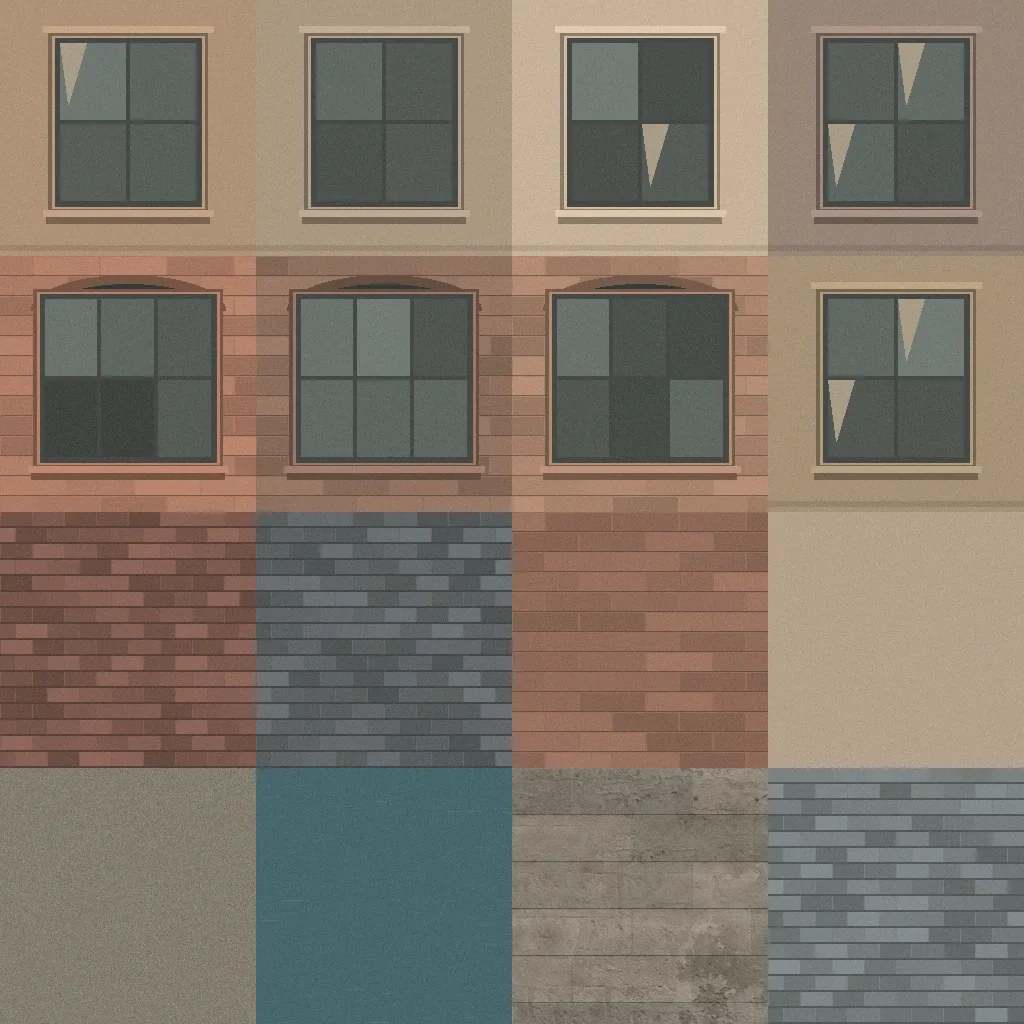
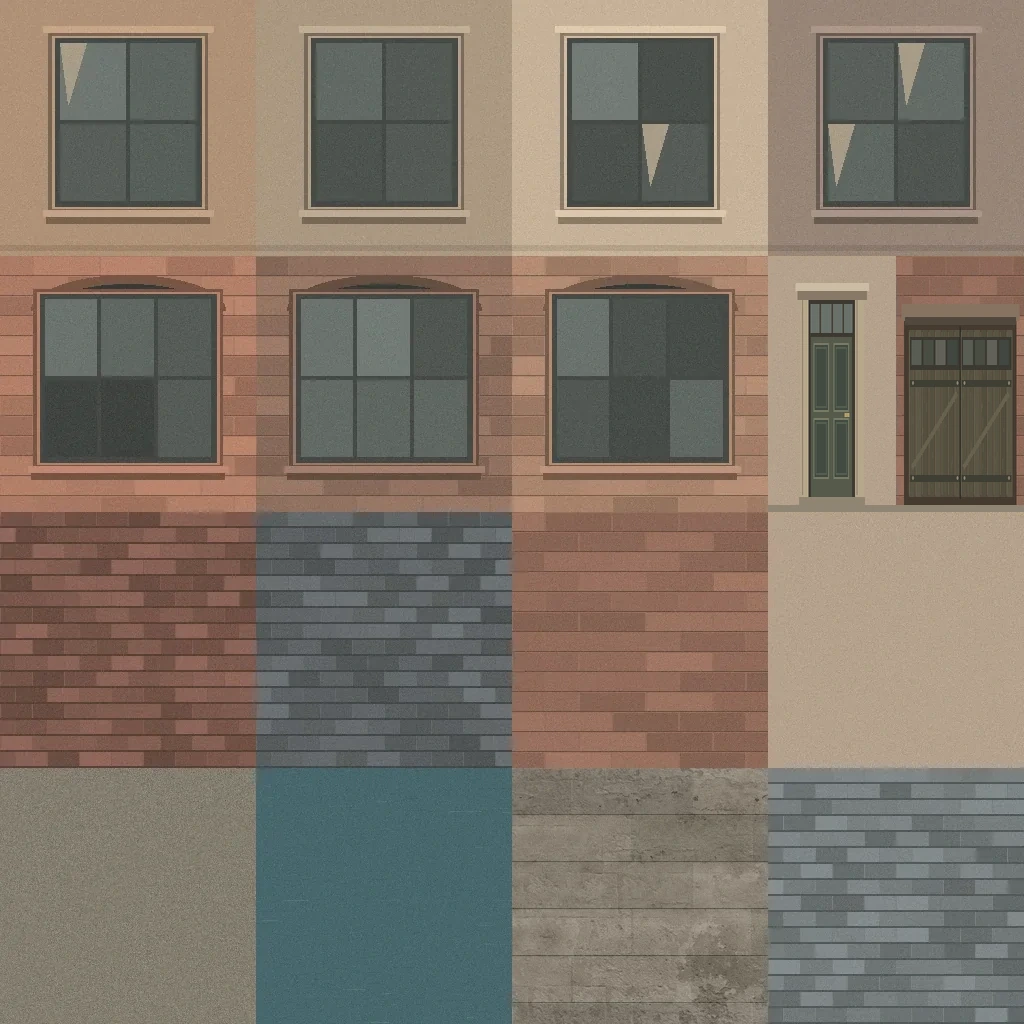
Reduce HUD updates and detail freight courtyard facades

Changed region(s): [[0.75, 0.25, 1.0, 0.5]]

diff --git a/client/ReleaseNotes.tsx b/client/ReleaseNotes.tsx
@@ -9,13 +9,13 @@ const changes=[
  ['Begehbare Harbour Road','Östlich der Radarstation liegen Palm Diner, Harbour Supply und Coast Records. Durch die offenen Eingänge gelangst du zu Sitznischen, Warenregalen und Plattenkisten. Die Läden haben eigene Böden, gerahmte Drucke, Verpackungen und Einrichtung. Bei Harbour Supply hängt ein illustrierter Musterkasten für Schiffszubehör samt aufgeschossener Leine. Über den Verkaufsregalen sind sechs Schiffsbeschläge auf beschrifteten Musterbrettern ausgestellt. In den Schaufenstern stehen rote und grüne Positionslaternen aus geripptem Glas und Messing. Der Laden hat eine helle Bretterdecke und einen seegrauen Tresen mit einer Maßskala für Tauwerk. Im Palm Diner stehen Ketchup und Senf auf einem Emailletablett. Meergrüne Wände mit einem cremefarbenen Fliesensockel umgeben den Gastraum. Über dem Tresen hängt die illustrierte Frühstückskarte. Draußen greifen der petrolfarbene Fliesensockel und das neue Fassadenschild die Farben des Innenraums auf. Die Brüstungen schließen bündig an die Türpfosten an, damit die Flächen beim Drehen nicht flimmern. Die Westwand trägt eine gemalte Kaffeereklame. Zur Hafenseite gibt es eine Küchenausgabe mit Emailleablage, belegten Broten und Wärmelampen. Coast Records hat einen Hörplatz mit Holzlautsprechern und dem eigens gestalteten Albumcover „Low Water“. An den Wänden hängen vier weitere illustrierte Cover und die dazugehörigen Schallplatten. Draußen kennzeichnet ein großes Schallplattenrelief mit farbigem Mittellabel die Seitenwand. Die Decke hat perforierte Akustikkassetten. Plattenkisten und Tresen haben Holzmaserung, Messinggriffe und Karteischilder. Harbour Supply und Coast Records haben eigene Fassadenschilder und beschriftete Schaufenstersockel. Pendelleuchten werfen warme Lichtkegel, und die Schaufenster haben profilierte Rahmen. Die drei Stoffmarkisen haben einen leichten Durchhang, gebogene Säume und sichtbare Halterungen. Am Straßenmast vor dem Palm Diner hängt ein Hafentelefon mit Wählscheibe, Hörer und beidseitigem Emailschild. Am Fußgängerübergang sind die Bordsteine abgesenkt. Auf den abgefahrenen Markierungen scheint stellenweise der Asphalt durch. Vier Straßenlampen haben gebogene Ausleger mit Emaillehauben und Opalglas. Ein gefalzter Metallrand umschließt die Gläser an der Unterseite. Die Freileitungen sitzen auf Porzellanisolatoren.'],
  ['Post vom Hafenamt','Die Geschäfte auf Island haben neue Aushänge. Außen an der Ostwand des Diners kannst du am Nachlassschalter mit E einen Bescheid ziehen. Auf Island hat die MP 40 einen Katzenaufsatz mit gedämpftem Schuss.'],
  ['Licht, Küste und Inselstraße','Ein fotografierter Himmel bestimmt Tageslicht und Reflexionen. Nebel und Nacht haben eigene Himmelsverläufe. Asphalt und Pflaster dunkeln bei Nebel durch Feuchtigkeit ab. Die Harbour Road führt durch eine ausgeschilderte Hafeneinfahrt zum Anleger und zum Hafenmeisterbüro. Durch die geöffneten Fenster siehst du das Funkpult, den Hafenplan und die Gezeitentafel. Hinter dem Anleger liegen Hafenkräne und der Frachter Tern Sound mit sichtbaren Stahlplattenstößen, Tiefgangsmarken, Ladebaum und Festmacherleinen. Die Hafenkräne haben verglaste Kabinen, Gegengewichte, Wartungsstege und Seilrollen mit Haken. Am Ufer rollen gestaffelte Wellen mit schmalen Schaumkanten über nassen Sand, entlang der Straße wachsen Sträucher. Die Harbour Road hat einen Zebrastreifen, Straßenabläufe und einen gusseisernen Schachtdeckel mit Hafenanker und Schriftprägung. Gefaste Bordsteine, Pflasterrinnen und versetzte Betonplatten geben den Gehwegen ein eigenes Profil. Felsen haben verwitterte Oberflächen mit dunkleren Gezeitenzonen. Auf Hoch und Ultra zeichnen sich Lichtmuster im flachen Wasser ab. Werkstätten und Depots tragen Dachaufbauten, Fallrohre und verwitterte Sprossenfenster. Die oberen Ladebuchten der Küstenwachen haben beschriftete Stahlrolltore mit Führungsschienen. Die Eingangsschilder sind unter den Vordächern wieder lesbar. Die Radarplattform hat jetzt einen Fachwerkmast, Funkkästen und neu markierte Zugänge.'],
- ['Historische Architektur','In Köln und im Güterviertel findest du Bahnhofsuhren, eiserne Vordächer und gemauerte Gesimse. Der Deutzer Bahnhof hat ein neues Vordach, Wandlaternen und eine Abfahrtstafel am Vorplatz. Zur Brücke hin trägt die Brückenwache ein Emailleschild zwischen Wandlaternen und profilierten Steinsimsen. Die Buchhandlung am Domhof hat Rundbogenfenster, Sandsteinrahmen, schmiedeeiserne Balkone und ein Schriftband zur Brücke. Im Erdgeschoss zeigen gerahmte Schaufenster Bücher, Kölner Ansichten und Karten. Nachts leuchten die Laternen, der Fahrplan und einzelne Fenster der umliegenden Häuser. Hinter den Straßen setzen sich die Häuserzeilen bis zum Horizont fort. Höhere Grafikprofile zeigen zusätzliche Gauben und Dachaufbauten. Die Kölner Eisenbahnbrücke hat ausgearbeitete Stahlbögen, Querverbände und genietete Anschlussbleche. Ihre beiden Gleise haben profilierte Schienen, blanke Laufflächen und gemaserte Schwellen. Auf der Brücke und im Güterviertel stehen hölzerne Güterwagen mit sichtbarem Fahrwerk, Stahlstreben und Puffern. Am Rheinufer stehen Kaimauern mit Hochwassermarken, Auslässen und Landungstreppen. Die Quader zeigen eine fotografische Sandsteinstruktur und unterschiedlich verwitterte Abschnitte. Die Wasseroberfläche zeigt Strömungsrippel. An den Kaimauern zieht die Strömung kleine Schaumstreifen flussabwärts. Natursteinplatten, Rinnen und Fahrspuren verbinden Kino und Güterbahnhof. Beladene Handkarren stehen im Güterhof. Die Gleise haben profilierte Schienen mit blanken Laufflächen, Befestigungen und gemaserten Schwellen. An Gleis 2 erkennst du die Paketannahme der Feldpost an ihrer Backsteinfassade und dem gemalten Schild. Am Ende der Gleise stehen ein Bahnwasserturm und ein Wasserkran. Beide Gleise laufen bis zum Prellbock mit durchgehenden Schwellen und einem geböschten Schotterbett. Am Turm sind gemauerte Bögen, vertiefte Fugen und genietete Bleche sichtbar. Der danebenstehende Wasserkran hat verschraubte Eisenflansche, ein Handrad und eine ausgeformte Tülle. Daneben liegt eine gekieste Arbeitsfläche mit gebogenen Fahrspuren. Über dem Kölner Rheinufer ragen die beiden gotischen Domtürme mit Maßwerk und abgestuften Spitzen auf. In den Alpen liegen gestaffelte Kalkgrate mit Schneefeldern hinter den Kasernen. Unterhalb der Grate stehen Tannen mit unregelmäßigen Zweigen, sichtbaren Stämmen und einzelnen Schneespuren. Auf den Kalkblöcken am Pass liegt Schnee auf den oberen Flächen und in flachen Rinnen. Eine eigene Kalksteintextur zeigt Bruchlinien und Mineraladern an Felsen und Berghängen. Die Felshänge schließen an den Passboden an, und die Tannen stehen auf der Geländeoberfläche. Schneeverwehungen, Radspuren und festgetretene Wege verbinden die Kasernen mit der Passstraße. Auf den Dächern liegt ungleichmäßig verteilter Schnee. Am Poste des Alpes schützt ein schneebedecktes Holzvordach den Eingang. Feine Schneeflocken ziehen mit dem Wind durch das Tal. Gebäude halten die Flocken draußen, durch offene Eingänge und Fenster bleibt der Schnee sichtbar. Roche-la-Croix hat eine befestigte Betonfront und eine stählerne Beobachtungsglocke. Am Eingang zeigen sich Spuren der Holzschalung, Frostschäden und französische Bauwerksmarkierungen. Darüber sitzen Sprossenfenster mit zurückgeklappten Stahlläden unter einem Kalksteingiebel.'],
+ ['Historische Architektur','In Köln und im Güterviertel findest du Bahnhofsuhren, eiserne Vordächer und gemauerte Gesimse. Der Deutzer Bahnhof hat ein neues Vordach, Wandlaternen und eine Abfahrtstafel am Vorplatz. Zur Brücke hin trägt die Brückenwache ein Emailleschild zwischen Wandlaternen und profilierten Steinsimsen. Die Buchhandlung am Domhof hat Rundbogenfenster, Sandsteinrahmen, schmiedeeiserne Balkone und ein Schriftband zur Brücke. Im Erdgeschoss zeigen gerahmte Schaufenster Bücher, Kölner Ansichten und Karten. Nachts leuchten die Laternen, der Fahrplan und einzelne Fenster der umliegenden Häuser. Hinter den Straßen setzen sich die Häuserzeilen bis zum Horizont fort. Höhere Grafikprofile zeigen zusätzliche Gauben und Dachaufbauten. Die Kölner Eisenbahnbrücke hat ausgearbeitete Stahlbögen, Querverbände und genietete Anschlussbleche. Ihre beiden Gleise haben profilierte Schienen, blanke Laufflächen und gemaserte Schwellen. Auf der Brücke und im Güterviertel stehen hölzerne Güterwagen mit sichtbarem Fahrwerk, Stahlstreben und Puffern. Am Rheinufer stehen Kaimauern mit Hochwassermarken, Auslässen und Landungstreppen. Die Quader zeigen eine fotografische Sandsteinstruktur und unterschiedlich verwitterte Abschnitte. Die Wasseroberfläche zeigt Strömungsrippel. An den Kaimauern zieht die Strömung kleine Schaumstreifen flussabwärts. Natursteinplatten, Rinnen und Fahrspuren verbinden Kino und Güterbahnhof. Beladene Handkarren stehen im Güterhof. Die Gleise haben profilierte Schienen mit blanken Laufflächen, Befestigungen und gemaserten Schwellen. An Gleis 2 erkennst du die Paketannahme der Feldpost an ihrer Backsteinfassade und dem gemalten Schild. Am Ende der Gleise stehen ein Bahnwasserturm und ein Wasserkran. Beide Gleise laufen bis zum Prellbock mit durchgehenden Schwellen und einem geböschten Schotterbett. Am Turm sind gemauerte Bögen, vertiefte Fugen und genietete Bleche sichtbar. Der danebenstehende Wasserkran hat verschraubte Eisenflansche, ein Handrad und eine ausgeformte Tülle. Daneben liegt eine gekieste Arbeitsfläche mit gebogenen Fahrspuren. Dahinter haben die Wohnhäuser Türen mit Oberlicht und die Werkstätten verglaste Hoftore. Über dem Kölner Rheinufer ragen die beiden gotischen Domtürme mit Maßwerk und abgestuften Spitzen auf. In den Alpen liegen gestaffelte Kalkgrate mit Schneefeldern hinter den Kasernen. Unterhalb der Grate stehen Tannen mit unregelmäßigen Zweigen, sichtbaren Stämmen und einzelnen Schneespuren. Auf den Kalkblöcken am Pass liegt Schnee auf den oberen Flächen und in flachen Rinnen. Eine eigene Kalksteintextur zeigt Bruchlinien und Mineraladern an Felsen und Berghängen. Die Felshänge schließen an den Passboden an, und die Tannen stehen auf der Geländeoberfläche. Schneeverwehungen, Radspuren und festgetretene Wege verbinden die Kasernen mit der Passstraße. Auf den Dächern liegt ungleichmäßig verteilter Schnee. Am Poste des Alpes schützt ein schneebedecktes Holzvordach den Eingang. Feine Schneeflocken ziehen mit dem Wind durch das Tal. Gebäude halten die Flocken draußen, durch offene Eingänge und Fenster bleibt der Schnee sichtbar. Roche-la-Croix hat eine befestigte Betonfront und eine stählerne Beobachtungsglocke. Am Eingang zeigen sich Spuren der Holzschalung, Frostschäden und französische Bauwerksmarkierungen. Darüber sitzen Sprossenfenster mit zurückgeklappten Stahlläden unter einem Kalksteingiebel.'],
  ['Uniformen und Hände','Jacken und Hosen haben sichtbare Nähte und Falten. Auf Island tragen Figuren Tarnstoff, geformte Schutzwesten und gebogene Schutzgläser. Die beiden Island-Uniformen haben eigene Gesichter mit unterschiedlichem Bartwuchs, geformte Rucksäcke und sichtbare Schultergurte. Helme und Stiefel werfen vollständigere Schatten. Kontaktschatten unter den Stiefeln drehen mit der Figur und folgen geneigtem Gelände. Stiefel rollen beim Gehen und Joggen sichtbarer am Boden ab. Beim Seitwärtslaufen bleibt die Schrittführung stabil. Zeitreise-Uniformen tragen flach anliegendes Gurtzeug und geformte Taschen. In der Egoansicht siehst du Gewebestruktur, Ärmelbündchen und Details an den Händen. Hautfalten, Knöchel und abgenutzte Bündchen reflektieren unterschiedlich. Warme Raumlampen beleuchten auch Hände und Ärmel.'],
  ['Union-Lichtspiele','Im Güterviertel von Operation Abendrot steht am Platz der Alten Mühle das begehbare Kino mit Art-déco-Portal und KINO-Schriftpfeiler. Nachts sind die Schrift und der Eingang beleuchtet. Vor der Tür greift ein bündiges Terrazzo-Medaillon das Fächermotiv des Portals auf. Sechs historische Propagandaplakate hängen in den Schaukästen. Im Saal rahmt ein geraffter Samtvorhang mit Messingsims das Archivfoto von 1935. Vier Sitzreihen haben Polsterrücken, über ihnen gliedern Deckenrippen den Raum.'],
  ['Zielfernrohre und historische Ausrüstung','Das Gewehr 43 mit ZF4 ergänzt den Karabiner 98k mit ZF39. Halte die rechte Maustaste für den vierfachen Zoom. Du kannst beim Zielen mit der linken Maustaste schießen.'],
  ['Zeichen und Auszeichnungen','In Köln und im Güterviertel findest du historische Luftschutzzeichen. Nach historischen Gefechten zeigt die Ergebnisansicht verdiente Auszeichnungen.'],
  ['Lobby und Fahrparcours','Die Spielauswahl nutzt auf großen Bildschirmen mehr Breite. Die Einsatzsteuerung sitzt unten. Im Inseltraining führt der Rennwagenparcours an der Küste durch eine Unterführung.'],
- ['Flüssigeres Umsehen','Beim Blick auf geschlossene Ladenwände begrenzt der Renderer die Sichttiefe auf den Raum und spart verdeckte Teile der Insel aus. In „Hoch“ und „Ultra“ beschränkt das Spiel die Schattenkarte auch auf der Straße auf den Ausschnitt, den die Kamera und die Waffe benötigen. In „Hoch“ und „Ultra“ wird statische Raumausstattung außerhalb des Bilds übersprungen. Für die Umgebungsverschattung werden feste Möbel pro Raum zusammen gezeichnet. Sichtbare Schatten bleiben erhalten. Der Modus „Flüssig“ passt die interne Auflösung an die GPU-Auslastung an. Leuchtspuren werden gemeinsam gezeichnet. Bei Treffereffekten, Rauch und Mündungsblitzen überträgt das Spiel nur sichtbare Partikeldaten. Staub und Metallfunken sehen unterschiedlich aus. Explosionen zeigen einen kurzen Feuerblitz und Staub, der sich ausbreitet. Zerbrechende Scheiben streuen unterschiedlich geformte Splitter, die zusammen gezeichnet werden. Uniformteile werden gemeinsam gezeichnet. Entfernte Standardfiguren nutzen beim normalen Blick ein leichteres Körpermodell. Hoch und Ultra richten den Wechsel nach der tatsächlichen Renderauflösung. Die offene Visierung behält diese Abstufung, das Zielfernrohr zeigt das Vollmodell. Entfernte Deckungskisten bekommen in „Hoch“ einfachere Schatten, auch wenn direkt vor dir eine Kiste steht. Kantenglättung und Farbausgabe teilen sich einen Renderdurchlauf. Glatte Bildflächen bekommen keine falschen Kantenmarkierungen mehr. Die Kantenmaske benötigt bei 1080p rund 4 MiB weniger Grafikspeicher. Das Spiel spart dabei einen HDR-Zwischenpuffer und zwei überflüssige Löschvorgänge in der Kantenglättung. Die Umgebungsverdeckung verwendet kleinere Zwischenpuffer und berechnet die Tiefenproben mit weniger GPU-Aufwand. Auf „Hoch“ nutzt die Umgebungsverdeckung den vorhandenen Tiefenpuffer und zeichnet die Geometrie dafür nicht noch einmal. Auf „Ultra“ übernimmt der Normalenpass die Sichtliste der Spielwelt. Auf Island überspringt „Hoch“ Mobiliar, das vollständig hinter einer Mauer verborgen liegt. Sichtbare Schatten bleiben dabei erhalten. Auf „Hoch“ benötigt der Normalenpuffer bei 1080p etwa 2 MiB weniger Grafikspeicher. Innenraumschilder teilen sich pro Karte eine Textur. Die Ausrichtung von Armen und Händen bei Spielfiguren braucht weniger Matrixberechnungen. Beim Werfen und Kriechen werden nur die betroffenen Gelenkketten aktualisiert. Bewaffnete Figuren verwenden dieselbe vorberechnete Transformation für beide Schultern. Überschriebene Kopf- und Brustbewegungen werden bei Standardfiguren nur einmal berechnet. Der Himmel kann den Farbpuffer direkt füllen. Der Tiefenpuffer liegt im Renderziel der Spielwelt. Punktlichter werden nur innerhalb ihrer Reichweite berechnet. Auf sonnenabgewandten Flächen entfallen unnötige Schattenabfragen. Auf unterstützten Systemen bündelt der Renderer opake Fassaden auf Island in „Hoch“ und „Ultra“. Zierglasscheiben innerhalb massiver Fabrikwände entfallen beim Rendern. Beim Blick auf geschlossene Ladenwände entfällt auch der Himmelsdurchlauf. Die Abschussliste und die persönliche Statusanzeige werden nur bei sichtbaren Änderungen neu aufgebaut. Die Highlight-Aufzeichnung verwendet vorhandene Netzwerk-Spielstände und vermeidet vollständige Kopien. Netzwerk-Updates übernehmen unveränderte Objekte aus dem vorherigen Spielstand. Bei unveränderten Innenräumen bleiben Türen und Kollisionsdaten im Speicher. Gestikulierende Bewohner finden ihre Fingergelenke jetzt ohne erneute Suche im Figurenmodell. Beim Wechsel zwischen Joggen und Sprinten behalten Figuren ihre Schrittphase. Die Offiziersmützen auf den Zeitreise-Karten sitzen tiefer auf der Stirn und haben eine gewölbte Krone. Der Offizier trägt jetzt einen gefalteten Hemdkragen, eine Krawatte und eine blaugraue Jacke. Der Schal des Veteranen ist gewickelt und fällt in einer Stofffalte über die Jacke. Dazu trägt er einen kürzeren graumelierten Bart und eine kleinere Brille, die näher am Gesicht sitzt. Sein Haaransatz nutzt die Kopftextur. Der Schulterriemen folgt der Jacke unter dem Schal bis zur Umhängetasche. Die drei Medaillen hängen an schmalen Stoffbändern. Der Gürtel liegt rund um den Mantel an. Bei der Fußplatzierung auf dem Boden entfällt ein Durchlauf durch das Figurenmodell. Die Fingerposen der Bewohner werden beim Laden vorbereitet. Die Handanimation nutzt die bereits berechneten Positionen des Unterarms und der Fingergelenke. Beim Berechnen des Kamerasichtfelds entfallen doppelte Aktualisierungen am sichtbaren Waffenmodell. Die Munitionsanzeige folgt der Waffe, ohne das Seitenlayout bei jeder Bewegung neu zu berechnen. Die Bewegung prüft Hindernisse nur auf Achsen, auf denen sich die Figur tatsächlich bewegt. Auf Island liest der Renderer die festen Übergänge zwischen Gras, Fahrspur und Sand aus einer vorberechneten Geländemaske. Undurchsichtige Gebäude werden vor dem Boden gezeichnet, damit die GPU verdeckte Bodenfläche überspringt. Gleiche Oberflächen der Island-Dekoration teilen sich Materialdaten auch in getrennten Kartenzellen. Das Spiel erstellt abgelegte Figuren mit weniger Rechenarbeit. Bots können den zuvor versperrten Ausrüstungspunkt auf Island erreichen. HUD und Menüs bleiben scharf.'],
+ ['Flüssigeres Umsehen','Beim Blick auf geschlossene Ladenwände begrenzt der Renderer die Sichttiefe auf den Raum und spart verdeckte Teile der Insel aus. In „Hoch“ und „Ultra“ beschränkt das Spiel die Schattenkarte auch auf der Straße auf den Ausschnitt, den die Kamera und die Waffe benötigen. In „Hoch“ und „Ultra“ wird statische Raumausstattung außerhalb des Bilds übersprungen. Für die Umgebungsverschattung werden feste Möbel pro Raum zusammen gezeichnet. Sichtbare Schatten bleiben erhalten. Der Modus „Flüssig“ passt die interne Auflösung an die GPU-Auslastung an. Leuchtspuren werden gemeinsam gezeichnet. Bei Treffereffekten, Rauch und Mündungsblitzen überträgt das Spiel nur sichtbare Partikeldaten. Staub und Metallfunken sehen unterschiedlich aus. Explosionen zeigen einen kurzen Feuerblitz und Staub, der sich ausbreitet. Zerbrechende Scheiben streuen unterschiedlich geformte Splitter, die zusammen gezeichnet werden. Uniformteile werden gemeinsam gezeichnet. Entfernte Standardfiguren nutzen beim normalen Blick ein leichteres Körpermodell. Hoch und Ultra richten den Wechsel nach der tatsächlichen Renderauflösung. Die offene Visierung behält diese Abstufung, das Zielfernrohr zeigt das Vollmodell. Entfernte Deckungskisten bekommen in „Hoch“ einfachere Schatten, auch wenn direkt vor dir eine Kiste steht. Kantenglättung und Farbausgabe teilen sich einen Renderdurchlauf. Glatte Bildflächen bekommen keine falschen Kantenmarkierungen mehr. Die Kantenmaske benötigt bei 1080p rund 4 MiB weniger Grafikspeicher. Das Spiel spart dabei einen HDR-Zwischenpuffer und zwei überflüssige Löschvorgänge in der Kantenglättung. Die Umgebungsverdeckung verwendet kleinere Zwischenpuffer und berechnet die Tiefenproben mit weniger GPU-Aufwand. Auf „Hoch“ nutzt die Umgebungsverdeckung den vorhandenen Tiefenpuffer und zeichnet die Geometrie dafür nicht noch einmal. Auf „Ultra“ übernimmt der Normalenpass die Sichtliste der Spielwelt. Auf Island überspringt „Hoch“ Mobiliar, das vollständig hinter einer Mauer verborgen liegt. Sichtbare Schatten bleiben dabei erhalten. Auf „Hoch“ benötigt der Normalenpuffer bei 1080p etwa 2 MiB weniger Grafikspeicher. Innenraumschilder teilen sich pro Karte eine Textur. Die Ausrichtung von Armen und Händen bei Spielfiguren braucht weniger Matrixberechnungen. Beim Werfen und Kriechen werden nur die betroffenen Gelenkketten aktualisiert. Bewaffnete Figuren verwenden dieselbe vorberechnete Transformation für beide Schultern. Überschriebene Kopf- und Brustbewegungen werden bei Standardfiguren nur einmal berechnet. Der Himmel kann den Farbpuffer direkt füllen. Der Tiefenpuffer liegt im Renderziel der Spielwelt. Punktlichter werden nur innerhalb ihrer Reichweite berechnet. Auf sonnenabgewandten Flächen entfallen unnötige Schattenabfragen. Auf unterstützten Systemen bündelt der Renderer opake Fassaden auf Island in „Hoch“ und „Ultra“. Zierglasscheiben innerhalb massiver Fabrikwände entfallen beim Rendern. Beim Blick auf geschlossene Ladenwände entfällt auch der Himmelsdurchlauf. Die Abschussliste, die persönliche Statusanzeige und die Waffenplatzanzeige werden nur bei sichtbaren Änderungen neu aufgebaut. Die Highlight-Aufzeichnung verwendet vorhandene Netzwerk-Spielstände und vermeidet vollständige Kopien. Netzwerk-Updates übernehmen unveränderte Objekte aus dem vorherigen Spielstand. Bei unveränderten Innenräumen bleiben Türen und Kollisionsdaten im Speicher. Gestikulierende Bewohner finden ihre Fingergelenke jetzt ohne erneute Suche im Figurenmodell. Beim Wechsel zwischen Joggen und Sprinten behalten Figuren ihre Schrittphase. Die Offiziersmützen auf den Zeitreise-Karten sitzen tiefer auf der Stirn und haben eine gewölbte Krone. Der Offizier trägt jetzt einen gefalteten Hemdkragen, eine Krawatte und eine blaugraue Jacke. Der Schal des Veteranen ist gewickelt und fällt in einer Stofffalte über die Jacke. Dazu trägt er einen kürzeren graumelierten Bart und eine kleinere Brille, die näher am Gesicht sitzt. Sein Haaransatz nutzt die Kopftextur. Der Schulterriemen folgt der Jacke unter dem Schal bis zur Umhängetasche. Die drei Medaillen hängen an schmalen Stoffbändern. Der Gürtel liegt rund um den Mantel an. Bei der Fußplatzierung auf dem Boden entfällt ein Durchlauf durch das Figurenmodell. Die Fingerposen der Bewohner werden beim Laden vorbereitet. Die Handanimation nutzt die bereits berechneten Positionen des Unterarms und der Fingergelenke. Beim Berechnen des Kamerasichtfelds entfallen doppelte Aktualisierungen am sichtbaren Waffenmodell. Die Munitionsanzeige folgt der Waffe, ohne das Seitenlayout bei jeder Bewegung neu zu berechnen. Die Bewegung prüft Hindernisse nur auf Achsen, auf denen sich die Figur tatsächlich bewegt. Auf Island liest der Renderer die festen Übergänge zwischen Gras, Fahrspur und Sand aus einer vorberechneten Geländemaske. Undurchsichtige Gebäude werden vor dem Boden gezeichnet, damit die GPU verdeckte Bodenfläche überspringt. Gleiche Oberflächen der Island-Dekoration teilen sich Materialdaten auch in getrennten Kartenzellen. Das Spiel erstellt abgelegte Figuren mit weniger Rechenarbeit. Bots können den zuvor versperrten Ausrüstungspunkt auf Island erreichen. HUD und Menüs bleiben scharf.'],
 ] as const;
 
 export function ReleaseNotes(){

diff --git a/client/App.tsx b/client/App.tsx
@@ -19,7 +19,7 @@ import {WeaponPicker} from './WeaponPicker';
 import {validLoadout,type Loadout} from '../shared/weapons';
 import {LiveRooms} from './LiveRooms';
 import './mapCards.css';
-import React, { lazy, Suspense, useEffect, useMemo, useRef, useState } from "react";
+import React, { lazy, Suspense, useCallback, useEffect, useMemo, useRef, useState } from "react";
 import { Client, type Room } from "@colyseus/sdk";
 import { mergeSnapshot, type SnapshotPacket } from "../shared/protocol.ts";
 import type { Snapshot } from "../shared/game.ts";
@@ -59,7 +59,7 @@ export default function App({
   const [hits,setHits]=useState<ReceivedHit[]>([]),[deathReason,setDeathReason]=useState('');
   const feedSequence=useRef(0);
   const [headshotAt,setHeadshotAt]=useState(0);
-  const keyLabel=(action:keyof typeof settings.bindings)=>settings.bindings[action].replace('Key','').replace('Digit','');
+  const keyLabel=useCallback((action:keyof typeof settings.bindings)=>settings.bindings[action].replace('Key','').replace('Digit',''),[settings.bindings]);
   const [graphicsQuality,setGraphicsQuality]=useState<GraphicsQuality>(()=>{
     try{return parseGraphicsQuality(localStorage.getItem(graphicsStorageKey));}catch{return 'auto';}
   });
@@ -285,9 +285,13 @@ export default function App({
   const health=Math.ceil(me?.hp??0),hasShield=!!me?.carriedCorpse,shield=me?.carriedCorpse?me.corpseShield:0;
   const kills=me?.kills??0,deaths=me?.deaths??0,stamina=me?.stamina??SPRINT_DURATION_MS;
   const sprinting=!!me?.sprinting,exhausted=!!me?.sprintExhausted;
+  const loadout=me?.loadout,equippedWeapon=me?.weapon;
   // Movement snapshots update the scene at network rate. Rebuild these HUD
   // subtrees only when a displayed field or the list of kills changes.
   const feedDisplay=useMemo(()=>active&&<section className="combat-feed live-killfeed" aria-label="Live-Abschüsse"><header><span>ABSCHÜSSE</span><small>● LIVE</small></header><div role="log" aria-live="polite">{killfeed.length===0?<p className="killfeed-empty">Noch keine Abschüsse</p>:killfeed.map(item=><div key={item.key} className={`killfeed-entry ${item.mine?'is-mine':item.friendly?'is-friendly':'is-enemy'}`}><strong>{item.killer}</strong><span className="killfeed-weapon" title={item.weapon}>{item.headshot?'◎':'▸'}</span><b>{item.victim}</b></div>)}</div></section>,[active,killfeed]);
+  const loadoutDisplay=useMemo(()=>active&&loadout&&<ol className="loadout-hud" aria-label="Deine Waffenplätze">
+    {loadout.map((id,slot)=><li key={slot} className={equippedWeapon===id?'equipped':''}><kbd>{keyLabel(('weapon'+(slot+1)) as keyof typeof settings.bindings)}</kbd><span>{weapons[id].name}</span></li>)}
+  </ol>,[active,loadout,equippedWeapon,keyLabel]);
   const statusDisplay=useMemo(()=>active&&<>
     <div className="city-hud"><strong>{health}<small>GESUNDHEIT</small></strong>{hasShield&&<CorpseShield value={shield}/>}</div>
     <div className="personal-score" aria-label="Eigene Abschüsse und Tode"><span><b>{kills}</b> KILLS</span><span><b>{deaths}</b> TODE</span></div>
@@ -306,7 +310,7 @@ export default function App({
       {startIntent&&!snapshot&&(!choosingWeapons?<CharacterPicker map={selectedMap} value={preferredUniform} onClose={()=>{setStartIntent(null);setChoosingWeapons(false);}} onSelect={id=>{setPreferredUniform(id);setError('');setChoosingWeapons(true);}}/>:preferredUniform&&<WeaponPicker island={selectedMap==='storm'} uniform={preferredUniform} busy={busy} error={error} onBack={()=>setChoosingWeapons(false)} onClose={()=>{setStartIntent(null);setChoosingWeapons(false);}} onStart={loadout=>void connect(startIntent.create,startIntent.training,preferredUniform,startIntent.operation,loadout)}/>)}
       {snapshot&&(scoreboardOpen||scoreboardHeld)&&<MatchScoreboard snapshot={snapshot} playerId={access?.playerId} onClose={()=>{setScoreboardOpen(false);setScoreboardHeld(false);}}/>}
       {active&&!!me?.rockets&&<div className="rocket-count">{keyLabel('rocket')} · Stielraketen: {me.rockets}</div>}
-      {active&&me&&<ol className="loadout-hud" aria-label="Deine Waffenplätze">{me.loadout.map((id,slot)=><li key={slot} className={me.weapon===id?'equipped':''}><kbd>{keyLabel(('weapon'+(slot+1)) as keyof typeof settings.bindings)}</kbd><span>{weapons[id].name}</span></li>)}</ol>}
+      {loadoutDisplay}
       {snapshot&&<nav className="game-toolbar" aria-label="Spielbedienung">
         <button aria-expanded={scoreboardOpen||scoreboardHeld} onClick={()=>setScoreboardOpen(v=>!v)}>Rangliste{!tabAssigned?' · Tab':''}</button>
         <button onClick={()=>{document.exitPointerLock();setSettingsOpen(true);}}>Einstellungen</button>

diff --git a/client/periodQuarter.ts b/client/periodQuarter.ts
@@ -13,11 +13,12 @@ export function createPeriodQuarter(id:Extract<MapId,'cologne'|'frontline'>,load
   const night={value:0};
   let seed=cologne?1938:1944;
   const random=()=>{seed=(Math.imul(seed,1664525)+1013904223)>>>0;return seed/4294967296;};
-  function face(points:Point[],tile:number,shade=1,windowLight=0){
+  function face(points:Point[],tile:number,shade=1,windowLight=0,half?:number){
     const first=position.length/3,u0=(tile%4+.016)/4,v0=(3-Math.floor(tile/4)+.016)/4,span=.968/4;
     for(let i=0;i<points.length;i++){
       const u=i===1?1:i===2?(points.length===3?.5:1):0,v=i>1?1:0;
-      position.push(...points[i]);uv.push(u0+span*u,v0+span*v);colors.push(shade,shade,shade);
+      const textureU=half===undefined?u0+span*u:(tile%4+(half+.016+.968*u)/2)/4;
+      position.push(...points[i]);uv.push(textureU,v0+span*v);colors.push(shade,shade,shade);
       windows.push(windowLight);
     }
     indices.push(first,first+1,first+2);
@@ -64,6 +65,10 @@ export function createPeriodQuarter(id:Extract<MapId,'cologne'|'frontline'>,load
     }
     function wall(x0:number,z0:number,x1:number,z1:number,finish:number){
       const bays=Math.max(1,Math.round(Math.hypot(x1-x0,z1-z0)/(factory?4.5:3.35)));
+      // At the freight sidings one bay opens to the yard rather than repeating
+      // another ground-floor window. The paired doors reuse a spare atlas tile.
+      const yardFront=!cologne&&tier===0&&cx>0&&Math.abs(cz)<80&&z0===-d&&z1===-d;
+      const doorBay=Math.floor(bays/2)-(bays>3&&Math.floor(Math.abs(cz))%2===1?1:0);
       for(let j=0;j<bays;j++){
         const a=j/bays,b=(j+1)/bays;
         for(let k=0;k<floors;k++){
@@ -72,8 +77,10 @@ export function createPeriodQuarter(id:Extract<MapId,'cologne'|'frontline'>,load
           const hash=Math.sin(cx*8.47+cz*12.67+x0*3.7+z0*4.6+j*7.23+k*21.9)*43758.54;
           const chance=hash-Math.floor(hash);
           const windowLight=chance<.082?Math.round(116+chance*1390):0;
+          const door=yardFront&&j===doorBay&&k===0;
           face([pt(x0+(x1-x0)*a,bottom,z0+(z1-z0)*a),pt(x0+(x1-x0)*b,bottom,z0+(z1-z0)*b),
-            pt(x0+(x1-x0)*b,top,z0+(z1-z0)*b),pt(x0+(x1-x0)*a,top,z0+(z1-z0)*a)],facade,tone*finish,windowLight);
+            pt(x0+(x1-x0)*b,top,z0+(z1-z0)*b),pt(x0+(x1-x0)*a,top,z0+(z1-z0)*a)],
+            door?7:facade,tone*finish,door?0:windowLight,door?(factory?1:0):undefined);
         }
       }
     }

diff --git a/client/OperationHud.tsx b/client/OperationHud.tsx
@@ -4,10 +4,11 @@ import {modeLabels,missionLabels,conditionLabels} from '../shared/operationConfi
 import {bodyPartLabels,limbBits,type BodyPart} from '../shared/injuries';
 import './remainsHud.css';
 export function OperationHud({snapshot:s,player:p,throwKey,bandageKey}:{snapshot:Snapshot;player?:Player;throwKey:string;bandageKey:string}){
- const o=s.operation,point=o.objective.stage==='extract'?o.objective.extract:o.objective.point,distance=p?Math.round(Math.hypot(point.x-p.x,point.z-p.z)):0;
+ const o=s.operation,point=o.objective.stage==='extract'?o.objective.extract:o.objective.point;
+ const distance=p&&o.config.mode==='mission'?Math.round(Math.hypot(point.x-p.x,point.z-p.z)):0;
  const held=p?.heldPart?s.bodyParts.find(part=>part.id===p.heldPart):undefined,carried=p?.carriedCorpse?s.corpses.find(corpse=>corpse.id===p.carriedCorpse):undefined;
  const patient=carried?s.players.find(q=>q.id===carried.sourceId&&q.life===carried.sourceLife&&!q.hp):undefined;
- const nearestTent=p?s.aidTents.filter(t=>t.team===p.team).sort((a,b)=>Math.hypot(a.x-p.x,a.z-p.z)-Math.hypot(b.x-p.x,b.z-p.z))[0]:undefined;
+ const nearestTent=p&&patient&&o.config.kind==='coop'?s.aidTents.filter(t=>t.team===p.team).sort((a,b)=>Math.hypot(a.x-p.x,a.z-p.z)-Math.hypot(b.x-p.x,b.z-p.z))[0]:undefined;
  const medical=p?s.corpses.find(corpse=>corpse.sourceId===p.id&&corpse.sourceLife===p.life&&corpse.medicalUntil>s.now):undefined;
  return <aside className="operation-hud" aria-label="Einsatz und Vorräte"><strong>{o.config.kind==='multiplayer'?'Mehrspieler':`${o.config.kind==='coop'?'KOOP · ':''}${modeLabels[o.config.mode]}`} · {conditionLabels[o.condition]}</strong>
   {o.config.mode==='survival'&&<span>Welle {o.wave}/5 · {o.nextWaveAt?`Nächste Welle in ${Math.max(0,Math.ceil((o.nextWaveAt-s.now)/1000))} s`:`${o.remaining} Gegner verbleiben`}</span>}
